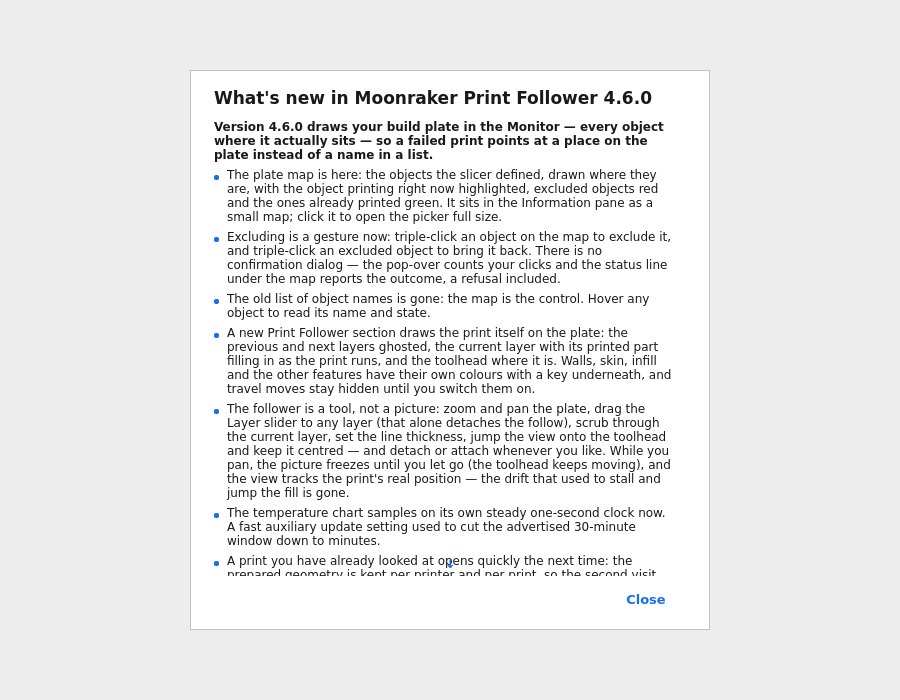
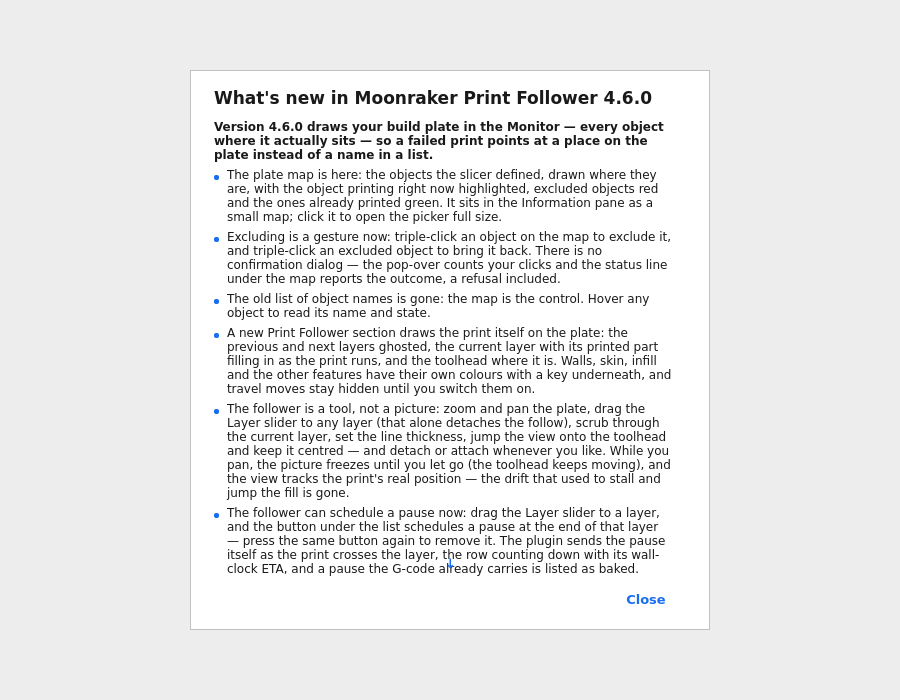
The release notes carry the pause scheduling, with the popup capture
The What's New popup is the most user-facing of the release documents,
and its 4.6.0 list had no item for the follower's pause scheduling. One
bullet joins the follower items, in the popup's own plain-text voice
(the content rule keeps markdown out of the rendered text).

08-whats-new.png is regenerated from it in the pinned container. Every
other capture came back byte-identical, and the frame is byte-stable
across two runs, so the change is the bullet and its reflow: the card
scrolls, so the temperature-chart and prepared-store items move below
the fold. The contrast census reports nothing below the floor.

Changed region(s): [[0.2489, 0.72, 0.7467, 0.84]]

diff --git a/plugins/WhatsNew.py b/plugins/WhatsNew.py
@@ -57,6 +57,12 @@ WHATS_NEW: Tuple[dict, ...] = (
             "pan, the picture freezes until you let go (the toolhead keeps "
             "moving), and the view tracks the print's real position — the "
             "drift that used to stall and jump the fill is gone.",
+            "The follower can schedule a pause now: drag the Layer slider "
+            "to a layer, and the button under the list schedules a pause at "
+            "the end of that layer — press the same button again to remove "
+            "it. The plugin sends the pause itself as the print crosses the "
+            "layer, the row counting down with its wall-clock ETA, and a "
+            "pause the G-code already carries is listed as baked.",
             "The temperature chart samples on its own steady one-second "
             "clock now. A fast auxiliary update setting used to cut the "
             "advertised 30-minute window down to minutes.",
